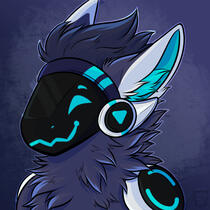
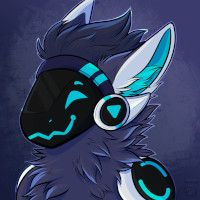
Optimizations
Compressed images
Swapped google fonts to bunny fonts

diff --git a/index.html b/index.html
@@ -38,7 +38,7 @@
         <meta property="og:image:width" content="1200"/>
         <meta property="og:image:height" content="630"/>
         
-        <link href="https://fonts.googleapis.com/css2?display=swap&family=Montserrat:ital,wght@0,500;1,500&family=Inter:ital,wght@0,400;1,400" rel="stylesheet" type="text/css"/>
+        <link href="https://fonts.bunny.net/css2?display=swap&family=Montserrat:ital,wght@0,500;1,500&family=Inter:ital,wght@0,400;1,400" rel="stylesheet" type="text/css"/>
         <style>
             html,body,div,span,applet,object,iframe,h1,h2,h3,h4,h5,h6,p,blockquote,pre,a,abbr,acronym,address,big,cite,code,del,dfn,em,img,ins,kbd,q,s,samp,small,strike,strong,sub,sup,tt,var,b,u,i,center,dl,dt,dd,ol,ul,li,fieldset,form,label,legend,table,caption,tbody,tfoot,thead,tr,th,td,article,aside,canvas,details,embed,figure,figcaption,footer,header,hgroup,menu,nav,output,ruby,section,summary,time,mark,audio,video {
                 margin: 0;
@@ -1571,7 +1571,7 @@
                             <div class="inner">
                                 <div id="image12" class="image">
                                     <span class="frame">
-                                        <img src="assets/images/image12.jpg?v=348e8826" alt="profile picture"/>
+                                        <img src="assets/images/image12.jpg" alt="profile picture"/>
                                     </span>
                                 </div>
                                 <h1 id="text02" class="style5">Tibor</h1>
@@ -1644,7 +1644,7 @@
                                 <div>
                                     <div id="image07" class="style3 image">
                                         <span class="frame">
-                                            <img src="assets/images/image07.jpg?v=348e8826" alt="delta bot icon"/>
+                                            <img src="assets/images/image07.jpg" alt="delta bot icon"/>
                                         </span>
                                     </div>
                                 </div>
@@ -1673,7 +1673,7 @@
                                 <div>
                                     <div id="image05" class="style3 image">
                                         <span class="frame">
-                                            <img src="assets/images/image05.jpg?v=348e8826" alt="riolu bot icon"/>
+                                            <img src="assets/images/image05.jpg" alt="riolu bot icon"/>
                                         </span>
                                     </div>
                                 </div>
